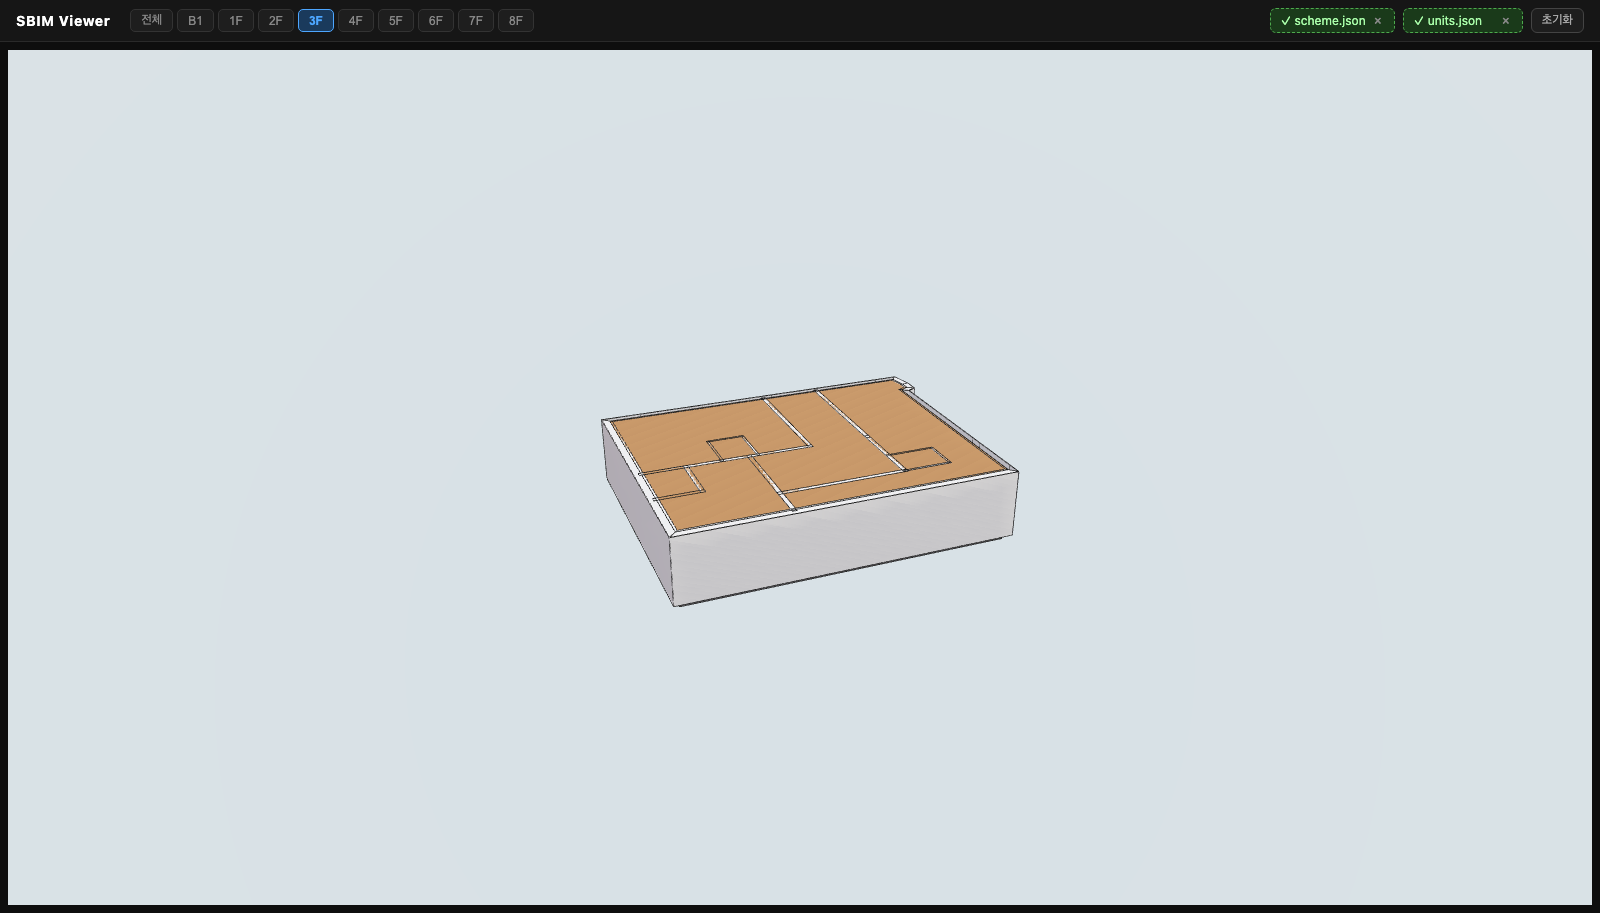
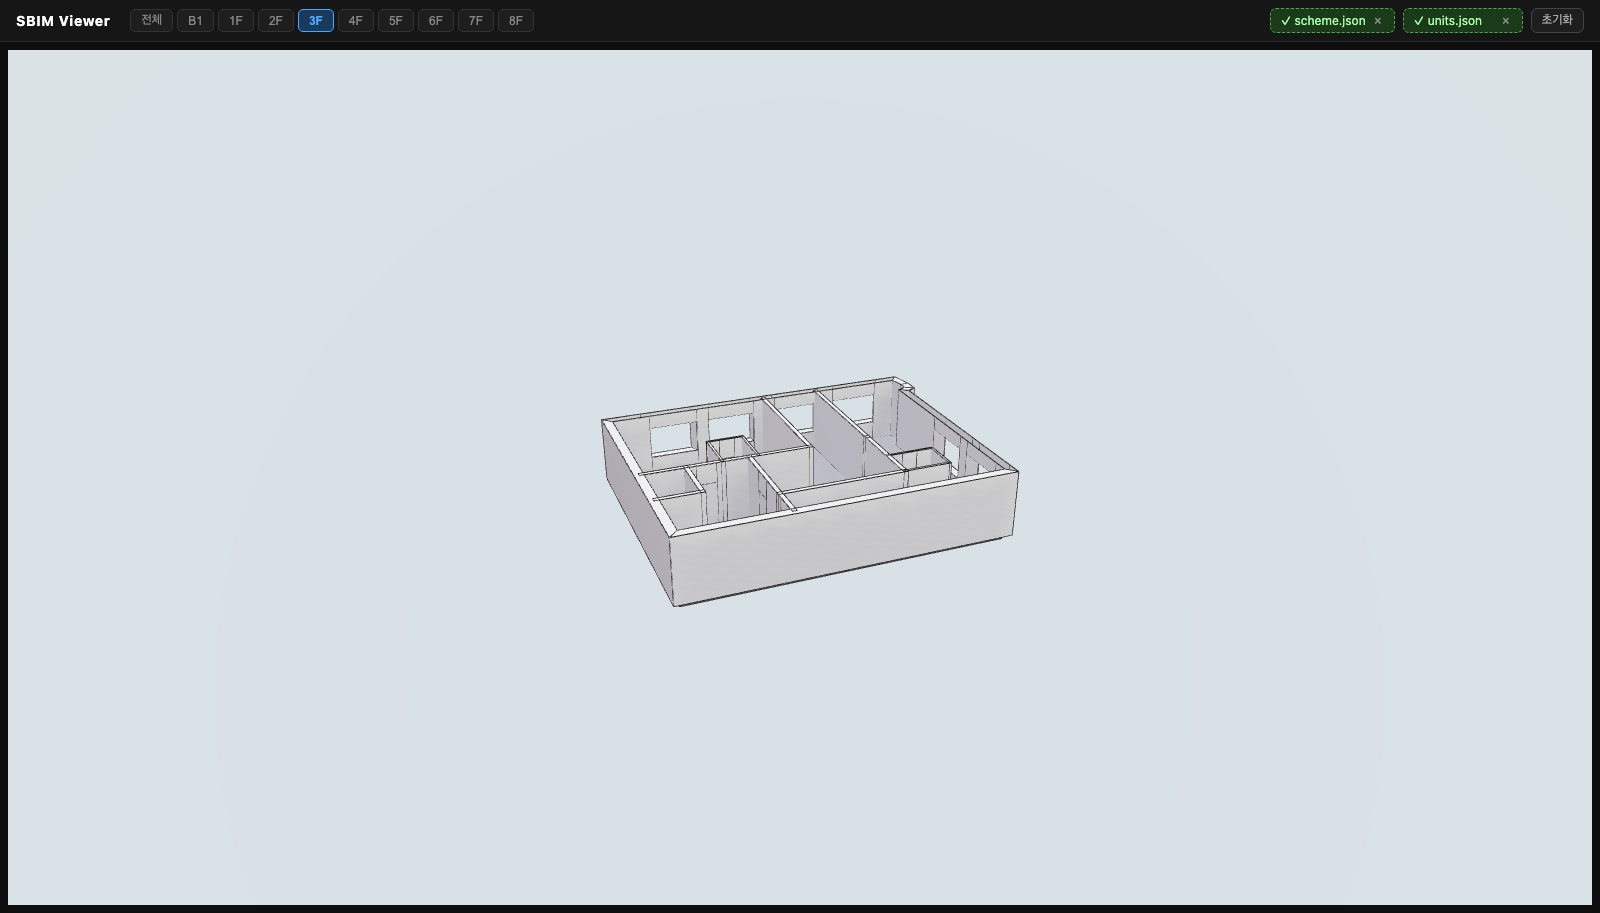
fix(visualizer): 단일 층 보기에서 천장 걷어내기 (cutaway)
층 하나만 골라도 지붕(천장) 메시가 그대로 그려져 위에서 보면 내부가
통째로 가려졌다. 층별 보기의 목적이 내부 확인인데 그게 안 됐다.

- selectedFloor != null이면 roof 미렌더 → 내부 벽·실 구획·창 개구부가 보임
- 세대 경계 opacity 0.1 → 단일 층에서 0.35(파랑). 0.1은 층 하나만
  볼 때 사실상 보이지 않는다. 전체 보기에서는 매스를 가리지 않게 유지
- docs/images/floor-view.png 재캡처, README 문구 갱신

Changed region(s): [[0.375, 0.3987, 0.625, 0.5827]]

diff --git a/visualizer/dist/BimCanvas.js b/visualizer/dist/BimCanvas.js
@@ -55,7 +55,7 @@ function BuildingScene({ schemeData, unitsData, surroundingsData, selectedFloor,
     }, [schemeData.floor_plans, selectedFloor]);
     return (_jsxs(_Fragment, { children: [_jsxs("group", { ref: buildingRef, children: [_jsx(SurroundingBuildingsMesh, { data: surroundingsData }), visibleFloorPlans.map((floorPlan) => {
                         const unitsOnThisFloor = unitsData.filter((u) => u.data?.floor_id === floorPlan.data.floor_id);
-                        return (_jsx(FloorGroup, { floorPlan: floorPlan, unitsOnThisFloor: unitsOnThisFloor }, `floor-${floorPlan.data.floor_id}`));
+                        return (_jsx(FloorGroup, { floorPlan: floorPlan, unitsOnThisFloor: unitsOnThisFloor, cutaway: selectedFloor != null }, `floor-${floorPlan.data.floor_id}`));
                     })] }), _jsx(Sky, { distance: 450000, sunPosition: [100, 100, 100], inclination: 0.6, azimuth: 0.25, turbidity: 10, rayleigh: 0.5 }), _jsx("directionalLight", { position: [500, 500, 0], intensity: 1.2, castShadow: true, "shadow-mapSize-width": 2048, "shadow-mapSize-height": 2048, "shadow-camera-far": 1000, "shadow-camera-left": -500, "shadow-camera-right": 500, "shadow-camera-top": 500, "shadow-camera-bottom": -500, "shadow-bias": -0.0001, color: "#FDF4DC" }), _jsx("directionalLight", { position: [-100, 80, -100], intensity: 0.3, color: "#CCDFFF" }), _jsx("ambientLight", { intensity: 0.4, color: "#E6F0FF" }), _jsx(ContactShadows, { position: [0, 0.01, 0], opacity: 0.4, scale: 200, blur: 3, far: 300, resolution: 1024, color: "#000000" })] }));
 }
 /* ============================================================
@@ -80,7 +80,7 @@ function SurroundingBuildingsMesh({ data, }) {
 /* ============================================================
  * FloorGroup — 한 층의 walls / floors / roof
  * ============================================================ */
-function FloorGroup({ floorPlan, unitsOnThisFloor, }) {
+function FloorGroup({ floorPlan, unitsOnThisFloor, cutaway = false, }) {
     const wallMaterial = useMemo(() => new THREE.MeshPhysicalMaterial({
         color: 0xffffff,
         side: THREE.DoubleSide,
@@ -103,12 +103,15 @@ function FloorGroup({ floorPlan, unitsOnThisFloor, }) {
         roughness: 0.8,
         metalness: 0.2,
     }), []);
+    // 전체 보기에서는 매스를 가리지 않도록 거의 투명, 단일 층에서는 세대 구획이
+    // 읽히도록 진하게. 0.1은 층 하나만 볼 때 사실상 보이지 않는다.
     const unitMaterial = useMemo(() => new THREE.MeshStandardMaterial({
-        color: 0x00ff00,
+        color: cutaway ? 0x4da6ff : 0x00ff00,
         transparent: true,
-        opacity: 0.1,
-    }), []);
-    return (_jsxs("group", { rotation: [-Math.PI / 2, 0, 0], children: [_jsx(GeometryGroup, { groups: floorPlan.geom.walls, material: wallMaterial, groupName: "wall" }), _jsx(GeometryGroup, { groups: floorPlan.geom.floors, material: floorMaterial, groupName: "floor" }), floorPlan.geom.roof && (_jsx(GeometryGroup, { groups: floorPlan.geom.roof, material: roofMaterial, groupName: "roof" })), unitsOnThisFloor.map((unit, i) => {
+        opacity: cutaway ? 0.35 : 0.1,
+        side: THREE.DoubleSide,
+    }), [cutaway]);
+    return (_jsxs("group", { rotation: [-Math.PI / 2, 0, 0], children: [_jsx(GeometryGroup, { groups: floorPlan.geom.walls, material: wallMaterial, groupName: "wall" }), _jsx(GeometryGroup, { groups: floorPlan.geom.floors, material: floorMaterial, groupName: "floor" }), floorPlan.geom.roof && !cutaway && (_jsx(GeometryGroup, { groups: floorPlan.geom.roof, material: roofMaterial, groupName: "roof" })), unitsOnThisFloor.map((unit, i) => {
                 const id = unit.data?.id ?? `unit-${i}`;
                 if (!unit.geom?.boundary)
                     return null;

diff --git a/visualizer/src/BimCanvas.tsx b/visualizer/src/BimCanvas.tsx
@@ -133,6 +133,7 @@ function BuildingScene({
               key={`floor-${floorPlan.data.floor_id}`}
               floorPlan={floorPlan}
               unitsOnThisFloor={unitsOnThisFloor}
+              cutaway={selectedFloor != null}
             />
           );
         })}
@@ -233,9 +234,12 @@ function SurroundingBuildingsMesh({
 function FloorGroup({
   floorPlan,
   unitsOnThisFloor,
+  cutaway = false,
 }: {
   floorPlan: FloorPlan;
   unitsOnThisFloor: Unit[];
+  /** 단일 층 보기 — 지붕(천장)을 걷어내 내부를 들여다본다 */
+  cutaway?: boolean;
 }) {
   const wallMaterial = useMemo(
     () =>
@@ -274,14 +278,17 @@ function FloorGroup({
     [],
   );
 
+  // 전체 보기에서는 매스를 가리지 않도록 거의 투명, 단일 층에서는 세대 구획이
+  // 읽히도록 진하게. 0.1은 층 하나만 볼 때 사실상 보이지 않는다.
   const unitMaterial = useMemo(
     () =>
       new THREE.MeshStandardMaterial({
-        color: 0x00ff00,
+        color: cutaway ? 0x4da6ff : 0x00ff00,
         transparent: true,
-        opacity: 0.1,
+        opacity: cutaway ? 0.35 : 0.1,
+        side: THREE.DoubleSide,
       }),
-    [],
+    [cutaway],
   );
 
   return (
@@ -296,7 +303,8 @@ function FloorGroup({
         material={floorMaterial}
         groupName="floor"
       />
-      {floorPlan.geom.roof && (
+      {/* cutaway: 지붕을 그리면 위에서 내려다볼 때 층 내부가 통째로 가려진다 */}
+      {floorPlan.geom.roof && !cutaway && (
         <GeometryGroup
           groups={floorPlan.geom.roof}
           material={roofMaterial}

diff --git a/README.md b/README.md
@@ -19,7 +19,8 @@
 왼쪽 두 사례는 용적률을 한계까지 채우며 사선을 따라 깎였고, 오른쪽은
 용적률 여유가 있어(FAR 102) 사선에 덜 눌린 매스로 섭니다.
 
-**층별 보기** — 상단 층 탭으로 한 층만 떼어 볼 수 있습니다. 세대 분할선과 코어가 보입니다.
+**층별 보기** — 상단 층 탭으로 한 층만 떼어 볼 수 있습니다. 천장을 걷어내고
+내부 벽·실 구획·창 개구부를 들여다봅니다.
 
 ![층별 평면](docs/images/floor-view.png)
 
